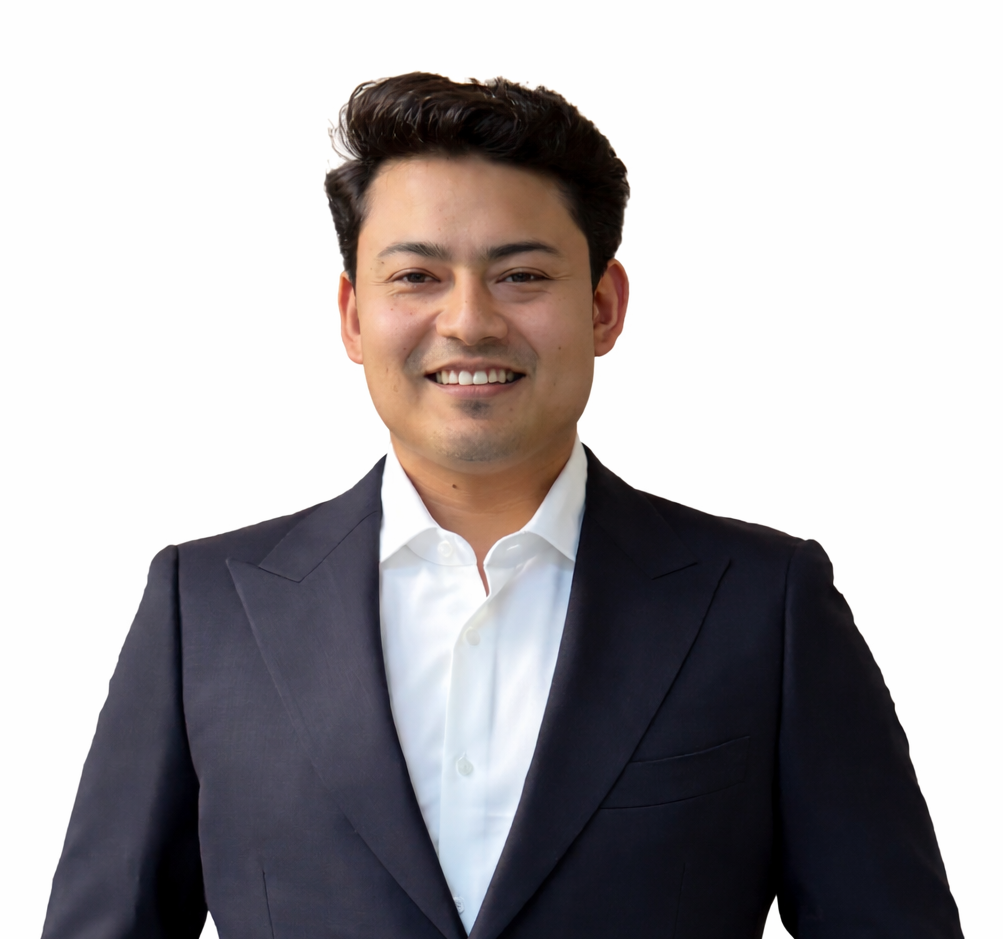
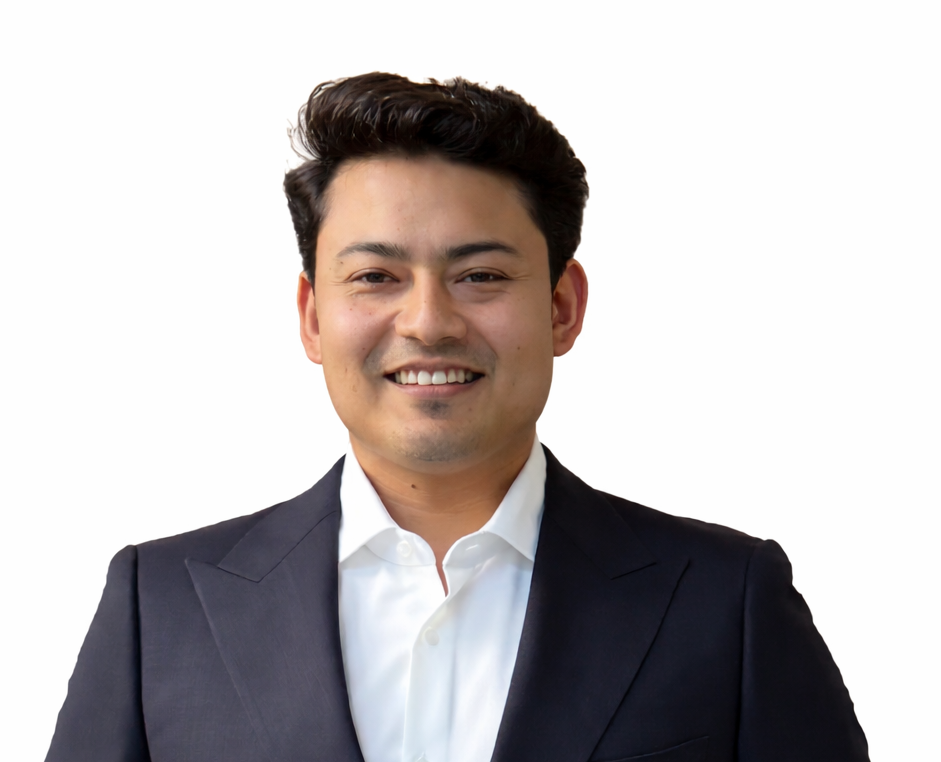
Update Safal Joshi team photo and slightly zoom founder portrait.
Replace the About page founder headshot and apply a 10% scale so it fills the circular frame better.

Changed region(s): [[0.0308, 0.0604, 0.9862, 1.0], [0.7396, 0.9357, 0.8013, 1.0], [0.7705, 0.7546, 0.8013, 0.8753]]

diff --git a/app/(site)/about/page.tsx b/app/(site)/about/page.tsx
@@ -4,7 +4,7 @@ import type { Metadata } from "next"
 import SiteIcon from "@/components/icons/SiteIcon"
 import PageHeader from "@/components/PageHeader"
 import { missionCards } from "@/lib/data"
-import { fetchActiveTeamMembers } from "@/lib/team-members"
+import { fetchActiveTeamMembers, FOUNDER_TEAM_MEMBER } from "@/lib/team-members"
 import { pageMetadata } from "@/lib/seo"
 
 export const metadata: Metadata = pageMetadata({
@@ -109,7 +109,9 @@ async function AboutPageContent() {
                       src={member.image}
                       alt={member.name}
                       fill
-                      className="object-cover"
+                      className={`object-cover ${
+                        member.id === FOUNDER_TEAM_MEMBER.id ? "scale-110" : ""
+                      }`}
                     />
                   </div>
                   <h4 className="font-[family-name:var(--font-playfair)] text-lg text-text-brand">